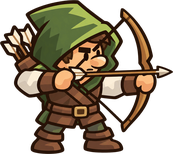
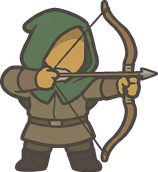
art: new flat-style characters (lineup idle + action sprites), smaller units, per-pose scale, magenta despill

diff --git a/tools/prepare_art.py b/tools/prepare_art.py
@@ -62,6 +62,12 @@ def key_out(im):
     for ch in range(3):
         v = a[..., ch]
         v[soft] = np.clip((v[soft] - bg[ch] * (1 - alpha[soft])) / np.maximum(alpha[soft], 0.05), 0, 255)
+    if bg[0] > 200 and bg[2] > 200 and bg[1] < 80:
+        # 品红底：描边上残留的紫边（红蓝都比绿高一截）压回去
+        r, g, b = a[..., 0], a[..., 1], a[..., 2]
+        m = (alpha > 0) & (np.minimum(r, b) - g > 18)
+        a[..., 0][m] = np.minimum(r[m], g[m] + 18)
+        a[..., 2][m] = np.minimum(b[m], g[m] + 12)
     a[..., 3] = alpha * 255
     return Image.fromarray(a.astype("uint8"), "RGBA")
 
@@ -71,6 +77,20 @@ def load(rel):
 
 def scaled(im, k):
     return im.resize((max(1, round(im.size[0] * k)), max(1, round(im.size[1] * k))), Image.LANCZOS)
+
+def pose_ratio(idle, im, has_skin):
+    import numpy as np
+    def areas(x):
+        a = np.asarray(x).astype(int)
+        r, g, b, al = a[..., 0], a[..., 1], a[..., 2], a[..., 3]
+        sk = (al > 200) & (r > 170) & (g > 110) & (g < 185) & (b < 110) & (r - g > 25) & (r - g < 90)
+        return sk.sum(), (al > 200).sum()
+    si, ai = areas(idle)
+    sp, ap = areas(im)
+    ka = (ai / max(ap, 1)) ** 0.5
+    if has_skin and si > 200 and sp > 200:
+        return (ka * (si / sp) ** 0.5) ** 0.5
+    return ka
 
 # ---- 单位：同一个兵种所有姿势用同一个缩放系数（以站姿身高为准），锚点 = 脚底中心
 UNIT_H = 160
@@ -83,7 +103,8 @@ for key in ["worker", "engineer", "swordsman", "archer", "goo"]:
         im = load(f"units/{key}_{pose}.png")
         if im is None:
             continue
-        im = scaled(im, k)
+        # 动作图常常和站姿图画得不一样大：按"角色画了多少像素"（不透明面积 + 皮肤面积）对齐到站姿的大小
+        im = scaled(im, k * pose_ratio(idle, im, key != "goo"))
         save(f"units/{key}_{pose}.png", im, feet_x(im) if pose != "dead" else im.size[0] / 2, im.size[1])
 
 # ---- 建筑：统一宽度，锚点 = 底边中心

diff --git a/art_spec/ACTION_PROMPTS.md b/art_spec/ACTION_PROMPTS.md
@@ -1,0 +1,91 @@
+# 动作图提示词（垫全家福）
+
+用法：每次**附上全家福图**，复制下面一段发给生图 AI，一段出一张，按标题的文件名保存，打包发我。
+
+- 画风跑偏或长出五官：补一句 `no eyes, no mouth, keep the same flat style as the reference`
+- 画出了一整排：补一句 `only one character`
+- 站姿图不用出，已从全家福切好
+
+## 剑兵（下排第 2 个，红盔缨）
+
+### `swordsman_act.png`
+
+```
+Using the attached character lineup as reference, draw ONLY the knight with the red plume, sword and kite shield (bottom row, 2nd from left). Keep exactly the same design, colors, thick dark outline, flat shading, proportions and featureless ochre face. New pose: stepping forward and slashing the sword down across his body, shield held in front. Full body, facing right, single character, centered, solid flat magenta #FF00FF background, no shadow, no text.
+```
+
+### `swordsman_dead.png`
+
+```
+Using the attached character lineup as reference, draw ONLY the knight with the red plume, sword and kite shield (bottom row, 2nd from left). Keep exactly the same design, colors, thick dark outline, flat shading, proportions and featureless ochre face. New pose: fallen flat on his back on the ground, helmet tilted, sword and shield dropped beside him. Single character, centered, solid flat magenta #FF00FF background, no shadow, no text.
+```
+
+## 弓箭手（下排第 3 个，绿兜帽）
+
+### `archer_act.png`
+
+```
+Using the attached character lineup as reference, draw ONLY the green hooded archer with the bow (bottom row, 3rd from left). Keep exactly the same design, colors, thick dark outline, flat shading, proportions and featureless ochre face. New pose: drawing the bow fully and aiming an arrow to the right. Full body, facing right, single character, centered, solid flat magenta #FF00FF background, no shadow, no text.
+```
+
+### `archer_dead.png`
+
+```
+Using the attached character lineup as reference, draw ONLY the green hooded archer with the bow (bottom row, 3rd from left). Keep exactly the same design, colors, thick dark outline, flat shading, proportions and featureless ochre face. New pose: fallen on the ground lying on his side, bow dropped beside him. Single character, centered, solid flat magenta #FF00FF background, no shadow, no text.
+```
+
+## 农民（下排第 1 个，拿镐）
+
+### `worker_act.png`
+
+```
+Using the attached character lineup as reference, draw ONLY the miner with the brown cap and pickaxe (bottom row, 1st from left). Keep exactly the same design, colors, thick dark outline, flat shading, proportions and featureless ochre face. New pose: swinging the pickaxe down hard at the ground in front of him, leaning forward. Full body, facing right, single character, centered, solid flat magenta #FF00FF background, no shadow, no text.
+```
+
+### `worker_carry.png`
+
+```
+Using the attached character lineup as reference, draw ONLY the miner with the brown cap (bottom row, 1st from left). Keep exactly the same design, colors, thick dark outline, flat shading, proportions and featureless ochre face. New pose: walking hunched over, carrying a heavy brown sack on his back with both hands, no pickaxe. Full body, facing right, single character, centered, solid flat magenta #FF00FF background, no shadow, no text.
+```
+
+## 工程师（上排第 1 个，大胡子拿锤）
+
+### `engineer_act.png`
+
+```
+Using the attached character lineup as reference, draw ONLY the bearded dwarf with the blue cap and big hammer (top row, 1st from left). Keep exactly the same design, colors, thick dark outline, flat shading, proportions and featureless ochre face. New pose: raising the hammer high over his head with both hands, about to smash down. Full body, facing right, single character, centered, solid flat magenta #FF00FF background, no shadow, no text.
+```
+
+### `engineer_dead.png`
+
+```
+Using the attached character lineup as reference, draw ONLY the bearded dwarf with the blue cap and big hammer (top row, 1st from left). Keep exactly the same design, colors, thick dark outline, flat shading, proportions and featureless ochre face. New pose: knocked out, slumped sitting on the ground, cap tilted over his face, hammer dropped beside him. Single character, centered, solid flat magenta #FF00FF background, no shadow, no text.
+```
+
+## 史莱姆（下排最后一个）
+
+### `goo_act.png`
+
+```
+Using the attached character lineup as reference, draw ONLY the green slime blob (bottom row, last). Keep exactly the same colors, thick dark outline and flat shading. New pose: lunging forward to the right, body stretched tall and leaning, a wide jagged mouth open to bite. Single character, centered, solid flat magenta #FF00FF background, no shadow, no text.
+```
+
+### `goo_dead.png`
+
+```
+Using the attached character lineup as reference, draw ONLY the green slime blob (bottom row, last). Keep exactly the same colors, thick dark outline and flat shading. New pose: melted into a wide flat puddle on the ground. Single character, centered, solid flat magenta #FF00FF background, no shadow, no text.
+```
+
+## 界面头像（可选，替换左上角和底栏的旧头像）
+
+### `icon_worker.png`
+
+```
+Using the attached character lineup as reference, draw ONLY the head and shoulders of the miner with the brown cap (bottom row, 1st from left) as a small game icon. Same design, colors, thick dark outline, flat shading, featureless ochre face. Front view, centered, solid flat magenta #FF00FF background, no text.
+```
+
+### `icon_hero.png`
+
+```
+Using the attached character lineup as reference, draw ONLY the head and shoulders of the bearded dwarf with the blue cap (top row, 1st from left) as a small game icon. Same design, colors, thick dark outline, flat shading, featureless ochre face. Front view, centered, solid flat magenta #FF00FF background, no text.
+```
